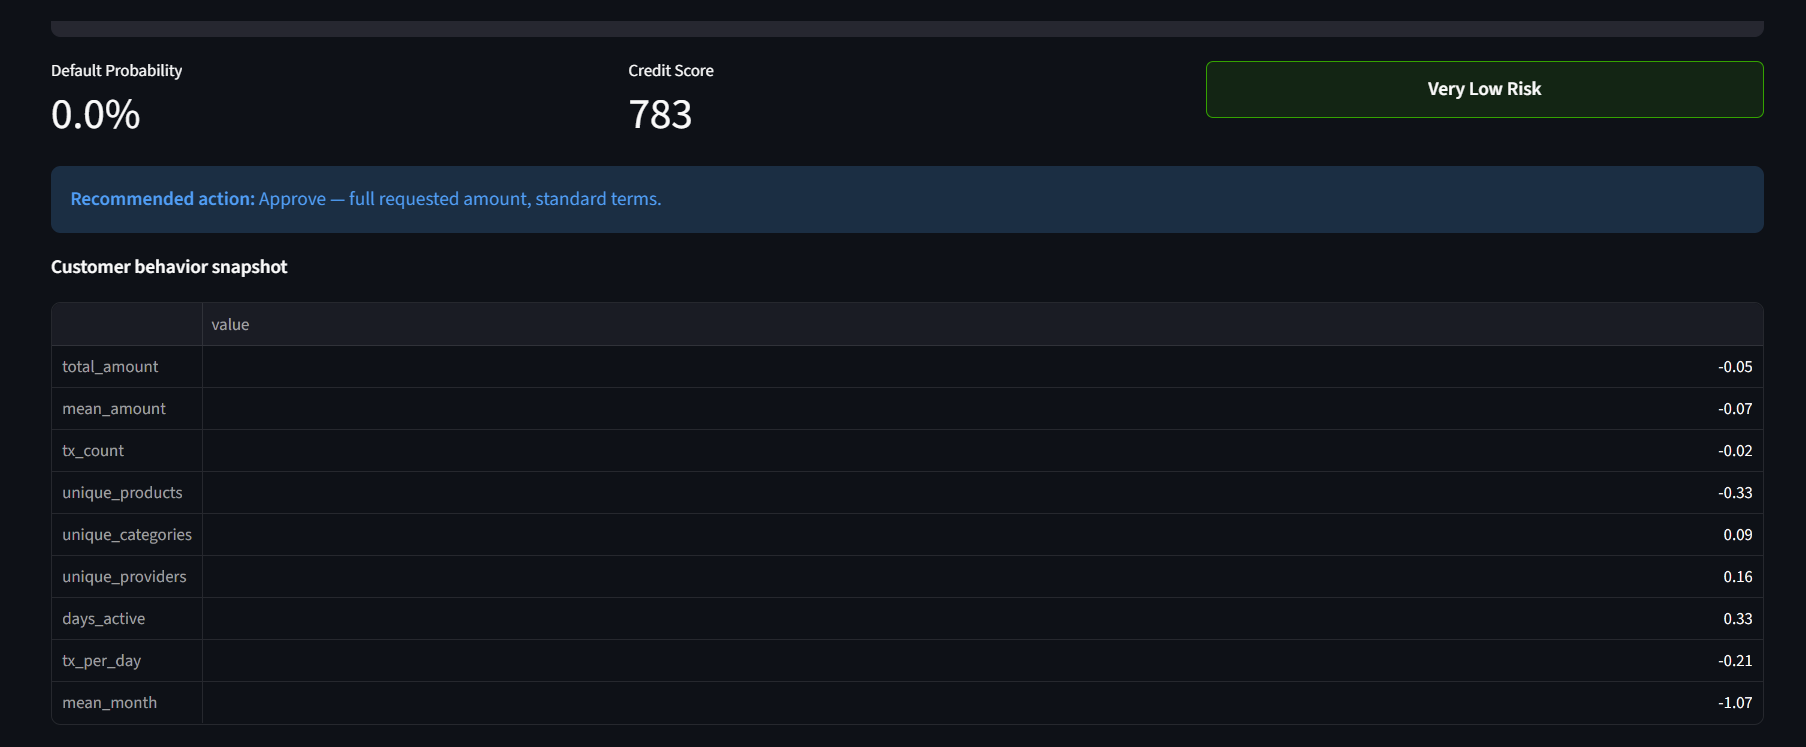
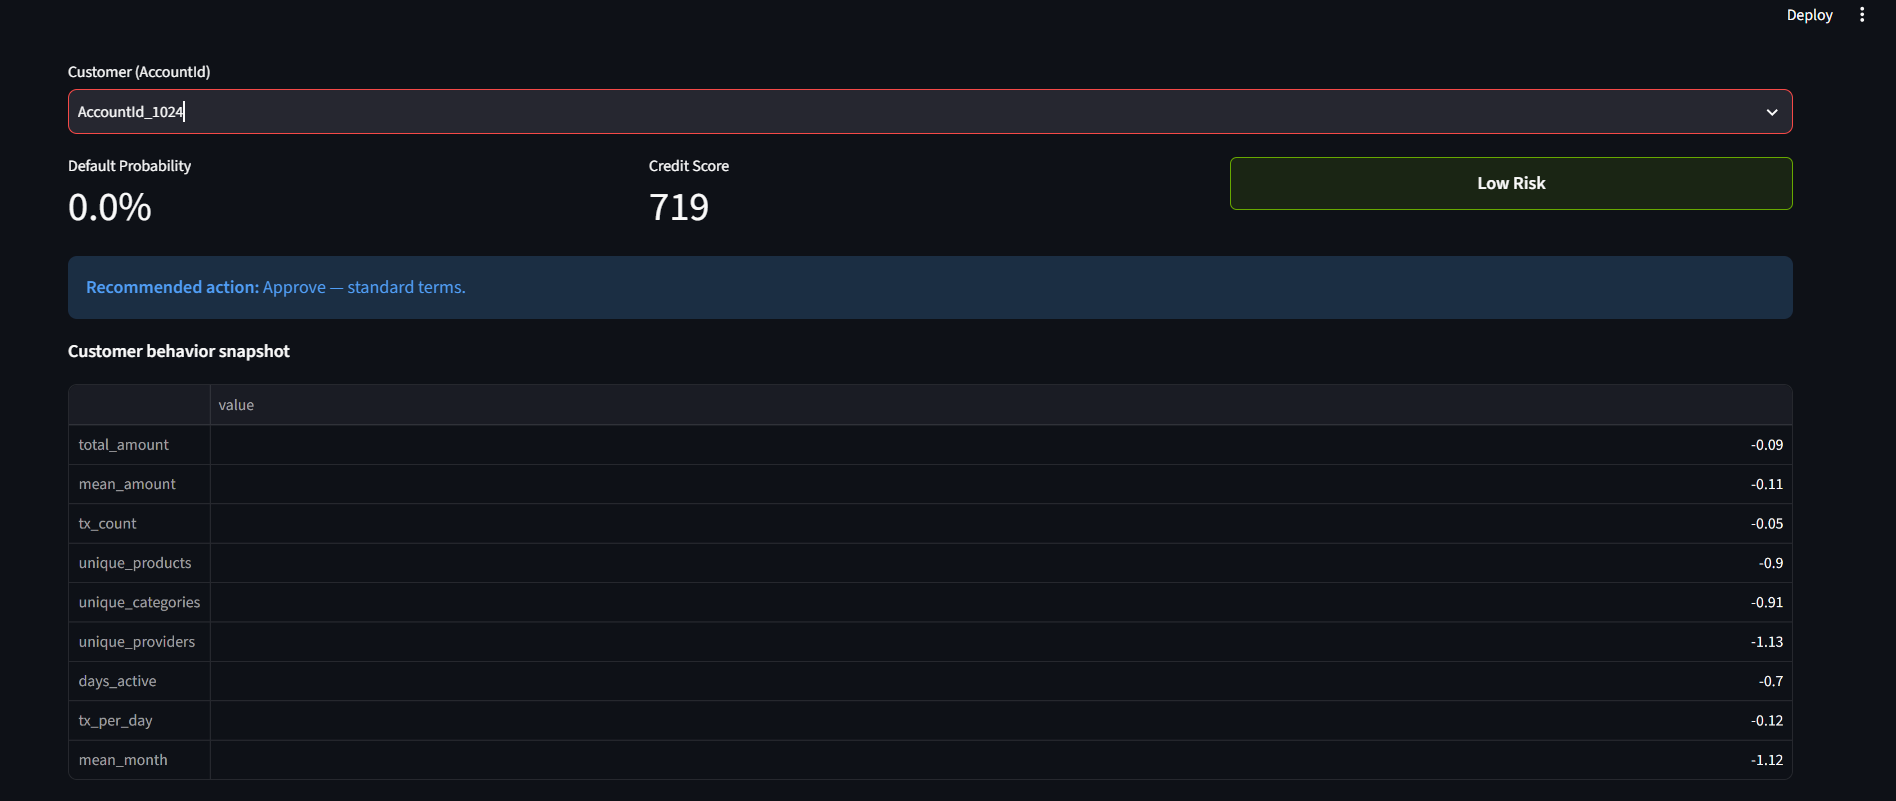
docs: add live screenshots to README (dashboard, MLflow, API, CI)
Real screenshots from the running system, not just chart exports:
dashboard scoring a customer, the SHAP waterfall rendered live inside
it, the MLflow experiment comparison UI, the API responding to a
health check locally, and the latest passing GitHub Actions run.

diff --git a/README.md b/README.md
@@ -201,6 +201,12 @@ A Streamlit app for a credit officer to explore the portfolio and score individu
 
 Roughly a third of the current portfolio (1,340 of ~3,600 customers) falls into **Very High Risk** — this is a direct consequence of how the `is_high_risk` proxy label was constructed via RFM/K-Means clustering, not a confirmed default rate. The dashboard surfaces this caveat directly under the chart, consistent with the proxy-variable risk disclosure above.
 
+**The app itself, running:**
+
+![Dashboard scoring an individual customer](reports/dashboard_screenshot.png)
+
+![SHAP waterfall inside the dashboard](reports/dashboard_shap_screenshot.png)
+
 ---
 
 ## Dataset
